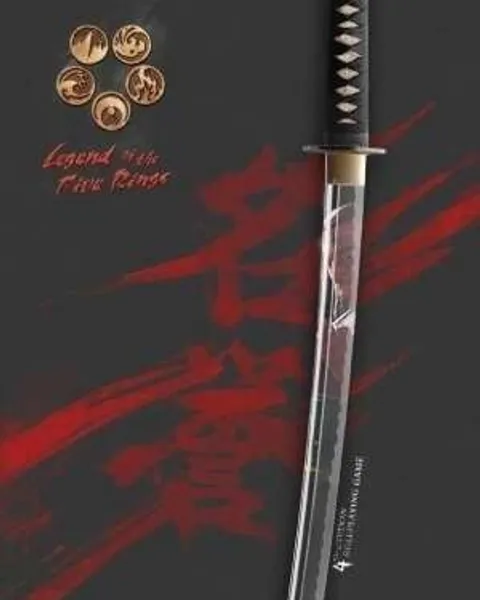
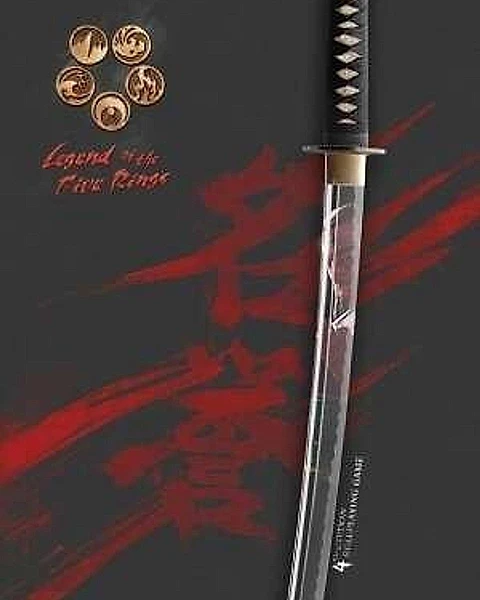
Shadowrun 3e and L5R 4e pictures: the larger scan for SR3, both upscaled with edge sharpening

diff --git a/docs/art-credits.md b/docs/art-credits.md
@@ -16,4 +16,4 @@ The other 30 pictures are for editions StartPlaying does not list. They were fou
 
 Delete the file in `public/images/genres/` or `public/images/systems/`. For a system also delete its line in `src/lib/system-covers.ts` and the tile falls back to the cover of its soonest listing. For a genre, put a replacement file of the same name (a genre tile without a picture file shows a plain colour block). Then push; the next build drops it. The file stays in git history, so if the request needs it gone completely, the history has to be rewritten too.
 
-A second pass the same day replaced 14 of those 30 with sharper pictures (2e/3e/4e covers and older books): Fate Condensed (Evil Hat's itch.io page), GURPS 3e (Warehouse 23), Call of Cthulhu 6e and Shadowrun 4e (Open Library), Nimble 5e and Savage Worlds Deluxe (Nimble Co. and Pinnacle shop pages), Mutants & Masterminds 2e, Vampire: The Requiem 1st Edition, Warhammer Fantasy Roleplay 2e (Wikipedia) and 3e, Pokémon Tabletop United (its own cover instead of StartPlaying's icon pattern), The One Ring 1e (the 2011 box; it had wrongly shown the 2nd edition cover), Classic Traveller (the Starter Edition box art, without its title) and Traveller (Mongoose 1st Edition) (its black cover, centred). Legend of the Five Rings 4th Edition and Shadowrun 3e stay at about 300 px, the best found.
+A second pass the same day replaced 14 of those 30 with sharper pictures (2e/3e/4e covers and older books): Fate Condensed (Evil Hat's itch.io page), GURPS 3e (Warehouse 23), Call of Cthulhu 6e and Shadowrun 4e (Open Library), Nimble 5e and Savage Worlds Deluxe (Nimble Co. and Pinnacle shop pages), Mutants & Masterminds 2e, Vampire: The Requiem 1st Edition, Warhammer Fantasy Roleplay 2e (Wikipedia) and 3e, Pokémon Tabletop United (its own cover instead of StartPlaying's icon pattern), The One Ring 1e (the 2011 box; it had wrongly shown the 2nd edition cover), Classic Traveller (the Starter Edition box art, without its title) and Traveller (Mongoose 1st Edition) (its black cover, centred). Shadowrun 3e (a 389 px Open Library scan) and Legend of the Five Rings 4th Edition (300 px) are the best scans found; both are upscaled in two steps with edge sharpening (scratch script, not in the repo), so they are crisper but not more detailed.
